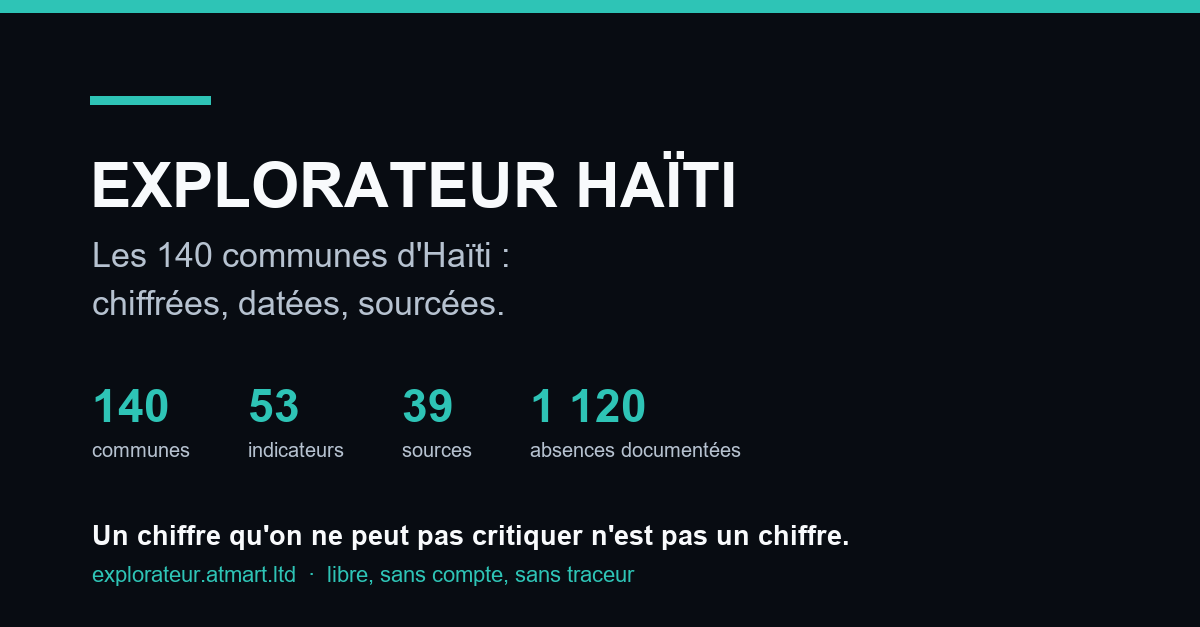
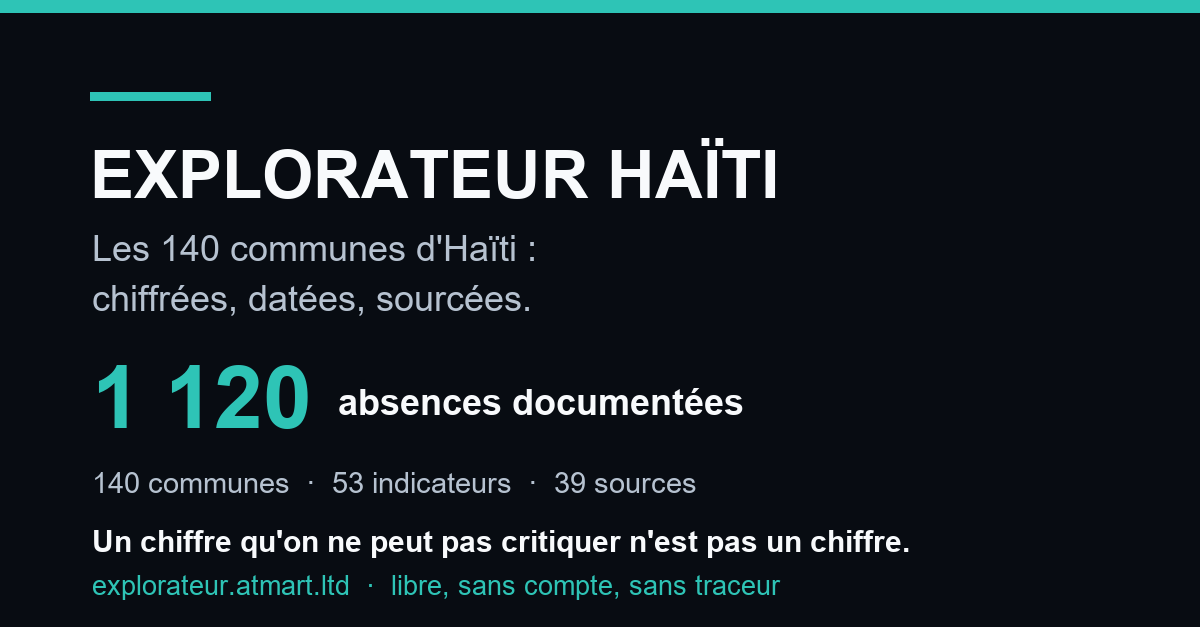
La carte de partage se lit a la taille ou LinkedIn l'affiche
Le Post Inspector a valide l'apercu, mais la carte etait dessinee pour
1200 px alors qu'elle s'affiche autour de 650 dans le fil. Les etiquettes
des compteurs tombaient a 11 px, sous le lisible sur mobile — la ou se
lira la majorite de l'audience.

- Un seul chiffre en vedette : 1 120 absences documentees. Quatre
  compteurs de taille egale ne portaient aucun argument ; celui-la est le
  seul que personne d'autre ne publie. Les trois autres passent en une
  ligne de texte, ils situent sans argumenter.
- Toutes les tailles remontees, plancher a 14 px une fois la carte reduite
  de moitie.
- Garde-fou dans visuel.py : il calcule le rendu a 650 px et signale ce
  qui passe sous 14 px ou deborde la marge. Il a rattrape le pied de carte
  a 13 px pendant cette passe.
- meta author ajoute — le Post Inspector le reclamait.
- PAS de date de publication, volontairement : l'Explorateur n'est pas un
  article, ses donnees changent, une date figee s'afficherait perimee sur
  chaque partage. La ligne rouge reste, et c'est le bon choix. Motif ecrit
  dans le commentaire du head.
- og:description disait 6 304 observations, le manifeste en compte 6 306.
  Corrige. C'est exactement le piege que la page reproche aux autres.
- Un canonical en double avait ete introduit au commit precedent : retire,
  celui d'origine suffit.
- CACHE explorateur-v114 -> v115.

Repasser l'adresse dans linkedin.com/post-inspector apres deploiement.

diff --git a/index.html b/index.html
@@ -24,21 +24,29 @@ if(v==="clair"||d)document.documentElement.setAttribute("data-theme",d?"dark":"l
        (constaté le 22/08/2026 en ajoutant le site à une section Sélection).
        Elles restent en français, en dur : les robots sociaux n'exécutent pas
        le JavaScript, T() ne les traduira jamais. og:url est absolue et sans
-       paramètre — les UTM se posent dans le lien partagé, pas ici. -->
-  <link rel="canonical" href="https://explorateur.atmart.ltd/" />
+       paramètre — les UTM se posent dans le lien partagé, pas ici.
+
+       PAS de date de publication, volontairement : LinkedIn classe la page en
+       « Article » et en réclame une, mais l'Explorateur n'est pas un article.
+       Ses données changent ; une date figée s'afficherait périmée sur chaque
+       partage. Le Post Inspector garde donc une ligne rouge, et c'est le bon
+       choix. Le canonical n'est pas ici : il existait déjà plus bas, un seul
+       suffit. -->
   <meta property="og:type" content="website" />
   <meta property="og:site_name" content="Explorateur Haïti" />
   <meta property="og:locale" content="fr_FR" />
   <meta property="og:url" content="https://explorateur.atmart.ltd/" />
   <meta property="og:title" content="Explorateur Haïti — les 140 communes, chiffrées, datées, sourcées" />
-  <meta property="og:description" content="53 indicateurs, 6 304 observations, 39 sources — et 1 120 absences documentées. Comparez deux territoires, exportez, vérifiez chaque chiffre à sa source. Sans compte, sans traceur." />
+  <meta property="og:description" content="53 indicateurs, 6 306 observations, 39 sources — et 1 120 absences documentées. Comparez deux territoires, exportez, vérifiez chaque chiffre à sa source. Sans compte, sans traceur." />
   <meta property="og:image" content="https://explorateur.atmart.ltd/assets/brand/partage-1200x627.png" />
   <meta property="og:image:width" content="1200" />
   <meta property="og:image:height" content="627" />
-  <meta property="og:image:alt" content="Explorateur Haïti — 140 communes, 53 indicateurs, 39 sources, 1 120 absences documentées." />
+  <meta property="og:image:alt" content="Explorateur Haïti — 1 120 absences documentées, 140 communes, 53 indicateurs, 39 sources." />
+  <meta name="author" content="Jean Wisner Myril" />
+  <meta property="article:author" content="https://www.linkedin.com/in/jean-wisner-myril-economist-statistician/" />
   <meta name="twitter:card" content="summary_large_image" />
   <meta name="twitter:title" content="Explorateur Haïti — les 140 communes, chiffrées, datées, sourcées" />
-  <meta name="twitter:description" content="53 indicateurs, 6 304 observations, 39 sources — et 1 120 absences documentées. Sans compte, sans traceur." />
+  <meta name="twitter:description" content="53 indicateurs, 6 306 observations, 39 sources — et 1 120 absences documentées. Sans compte, sans traceur." />
   <meta name="twitter:image" content="https://explorateur.atmart.ltd/assets/brand/partage-1200x627.png" />
   <link rel="preconnect" href="https://fonts.googleapis.com" />
   <link href="https://fonts.googleapis.com/css2?family=Inter:wght@400;500;600&family=Space+Grotesk:wght@500;700&display=swap" rel="stylesheet" />

diff --git a/sw.js b/sw.js
@@ -3,7 +3,7 @@
    addAll, qui annule tout au premier manquant), et bump du nom de cache a
    CHAQUE modification d'un fichier servi — sinon les habitues gardent
    l'ancienne version sans le savoir. */
-const CACHE = "explorateur-v114";
+const CACHE = "explorateur-v115";
 /* Les fiches que le lecteur a explicitement demande a garder (bouton de
    l'edition legere) vivent dans un cache A PART, et ce cache n'est JAMAIS
    purge au changement de version : sinon chaque mise en ligne effacerait
